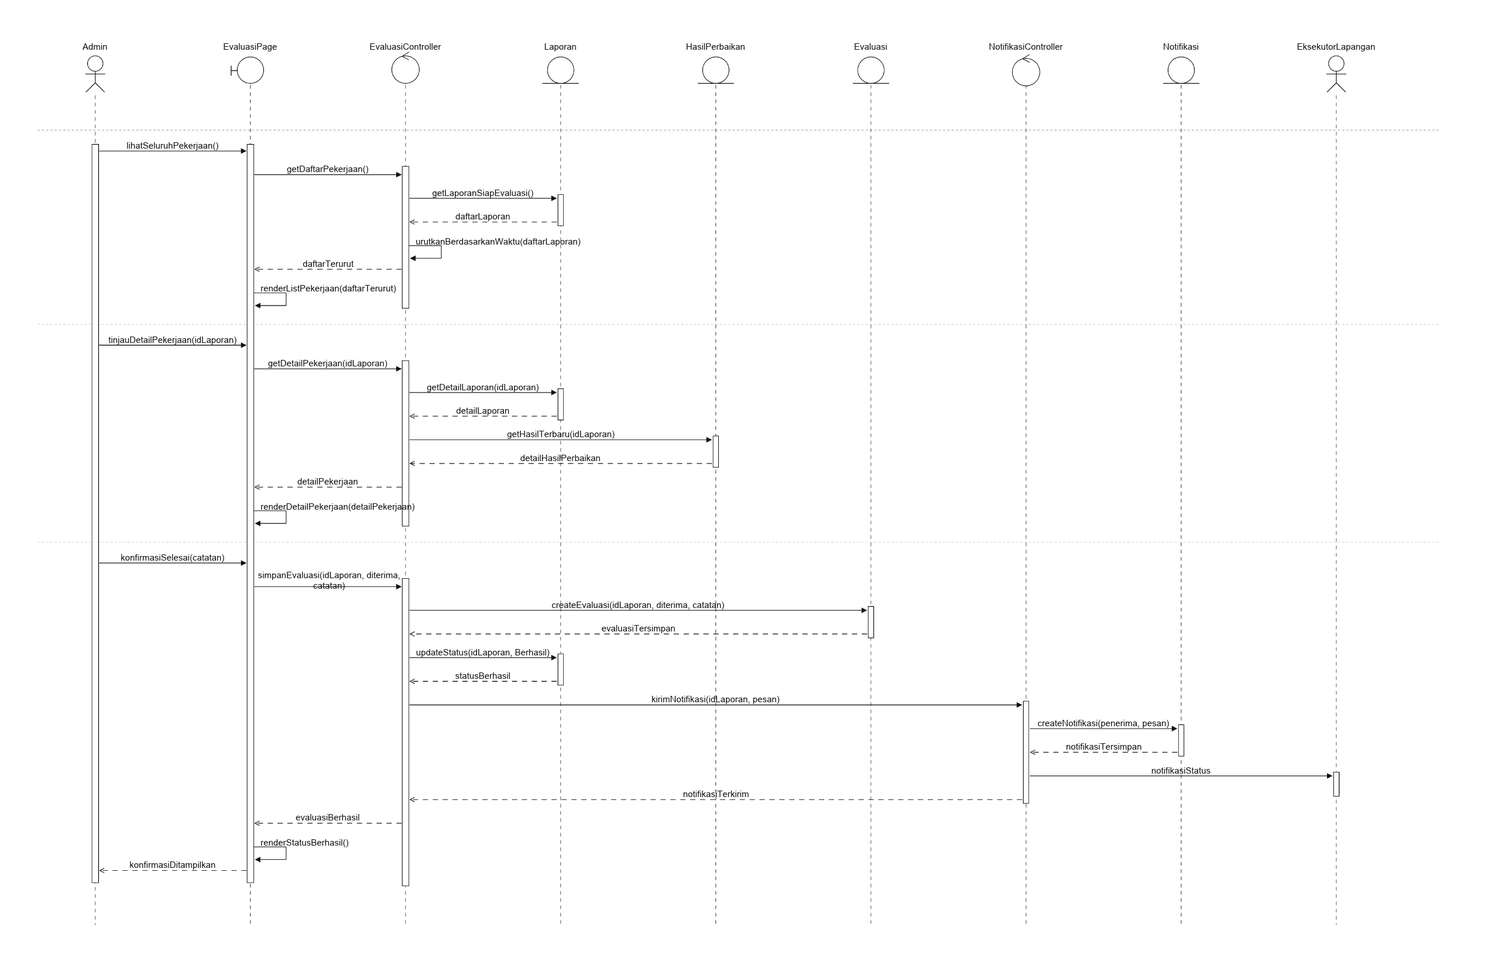
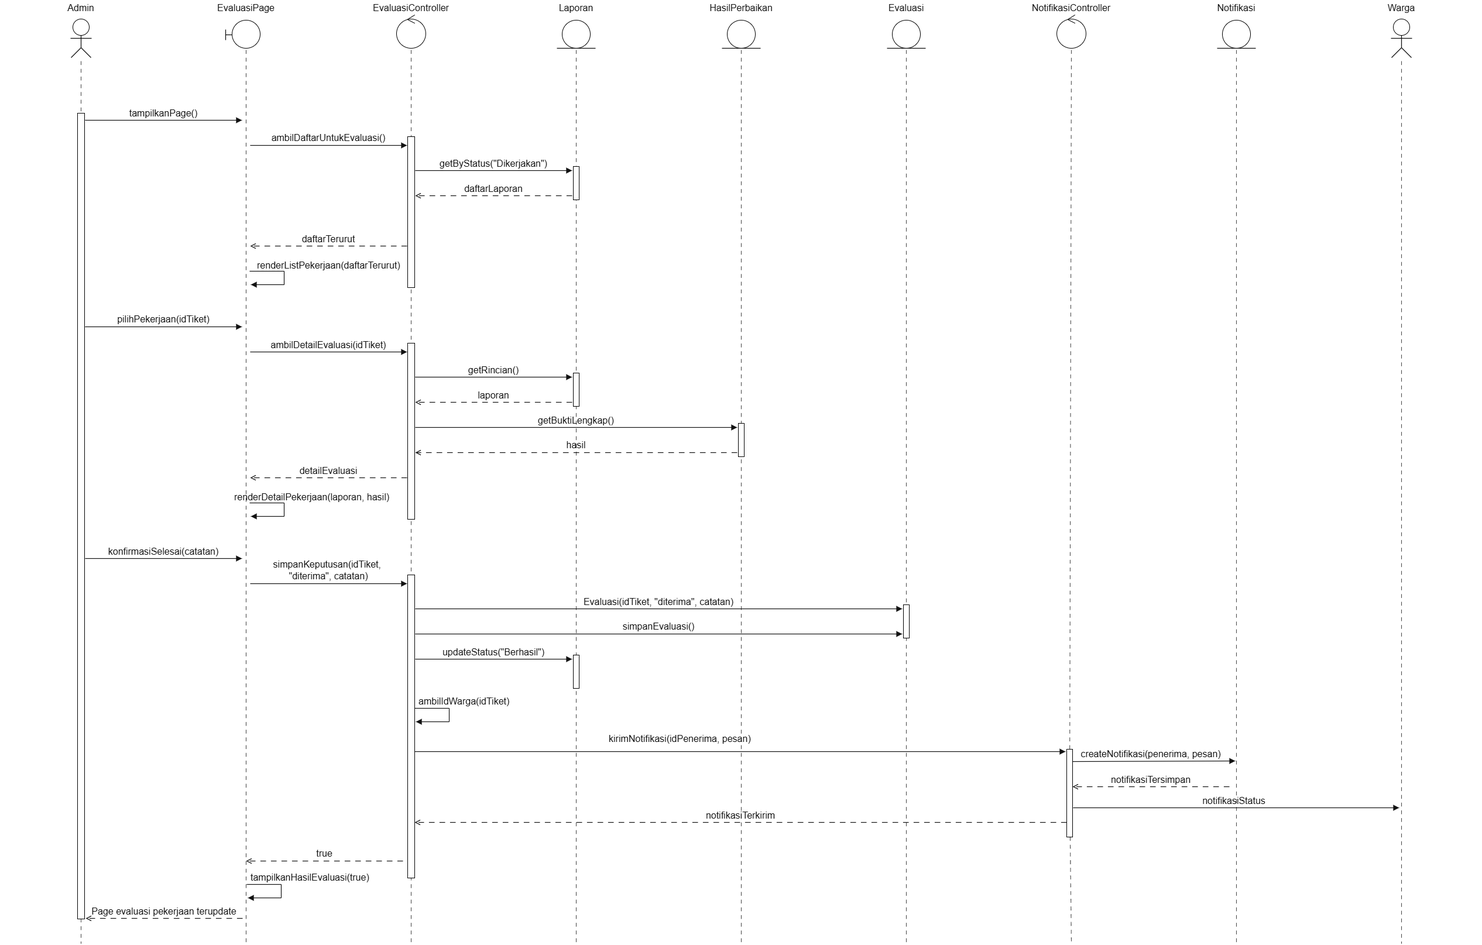
docs: final

diff --git a/docs/M7/K03_G07_DPPL.md b/docs/M7/K03_G07_DPPL.md
@@ -428,6 +428,15 @@ Tabel 3.4. Identifikasi Kelas Use Case UC04
 <i>Gambar 16. Sequence Diagram UC04 - Data Laporan Belum Lengkap</i>
 </p>
 
+- **Skenario Alternatif 2: Data Laporan Belum Lengkap**
+
+<p align="center">
+<img alt="Contoh Logical View pada P/L E-Commerce" src="./assets/diagram/UC-04-SD-Alt1.webp" width="50%">
+</p>
+<p align="center">
+<i>Gambar 16. Sequence Diagram UC04 - Data Laporan Belum Lengkap</i>
+</p>
+
 ### 3.4.3 Diagram Kelas
 
 
@@ -438,53 +447,67 @@ Tabel 3.4. Identifikasi Kelas Use Case UC04
 <i>Gambar 17. Diagram Kelas Melaporkan Hasil Penugasan</i>
 </p>
 
-## 3.5 Use Case [Nama Use Case 5]
+## 3.5 Use Case Mengevaluasi Hasil Kerja
 
-**ID Use Case:** *[UC01 sesuai SKPL]*  
-**Nama Use Case:** *[Nama use case sesuai SKPL]*
+**ID Use Case:** *UC05*  
+**Nama Use Case:** *Mengevaluasi Hasil Kerja*
 
 ### 3.5.1 Identifikasi Kelas
 
-Identifikasi kelas yang terkait dengan use case tersebut. Kelas di tahap perancangan dapat berbeda dengan dengan kelas di tahap analisis. Dapat menggunakan tabel di bawah:
 
 Tabel 3.5. Identifikasi Kelas Use Case [UC01]
 
 | No | Nama Kelas Perancangan | Nama Kelas Analisis Terkait |
-|:--- | :--- | :--- |
-| 1 | *[Nama kelas perancangan]* | *[Nama kelas analisis pada SKPL]* |
-| 2 | *[Nama kelas perancangan]* | *[Nama kelas analisis pada SKPL]* |
-| ... | *...* | *...* |
+| :--- | :--- | :--- |
+| 1 | *EvaluasiPage* | *C15 - EvaluasiPage* |
+| 2 | *EvaluasiController* | *C21 - EvaluasiController* |
+| 3 | *Evaluasi* | *C09 - Evaluasi* |
+| 4 | *Laporan* | *C02 - Laporan* |
+| 5 | *HasilPerbaikan* | *C08 - HasilPerbaikan* |
+| 6 | *User* | *C01 - User* |
+| 7 | *Foto* | *C04 - Foto* |
+| 8 | *Video* | *C05 - Video* |
+| 9 | *NotifikasiController* | *C23 - NotifikasiController* |
+| 10 | *Notifikasi* | *C10 - Notifikasi* |
 
 ### 3.5.2 Sequence Diagram
 
-Buat *sequence diagram* untuk **setiap skenario use case**, mencakup skenario normal dan alternatif pada subbab 4.4 SKPL. Diagram melibatkan kelas-kelas yang telah diidentifikasi pada SKPL. 
 
 - **Skenario Normal**
 
 <p align="center">
-<img alt="Contoh Logical View pada P/L E-Commerce" src="./assets/diagram/contoh-sequence_diagram.png" width="50%">
+<img alt="Contoh Logical View pada P/L E-Commerce" src="./assets/diagram/UC-05-SD.png" width="50%">
 </p>
 <p align="center">
-<i>Gambar X. Sequence Diagram [UC01]</i>
+<i>Gambar 18. Sequence Diagram UC05</i>
 </p>
 
-- **Skenario Alternatif [Nomor]: [Nama Skenario]**
+- **Skenario Alternatif 1: Pekerjaan belum selesai**
 
 <p align="center">
-<img alt="Contoh Logical View pada P/L E-Commerce" src="./assets/diagram/contoh-sequence_diagram.png" width="50%">
+<img alt="Contoh Logical View pada P/L E-Commerce" src="./assets/diagram/UC-05-SD-Alt1.png" width="50%">
 </p>
 <p align="center">
-<i>Gambar X. Sequence Diagram [UC01] - [Nama skenario alternatif]</i>
+<i>Gambar 19. Sequence Diagram UC05 - Pekerjaan belum selesai</i>
+</p>
+
+- **Skenario Alternatif 2: Foto/video pekerjaan tidak ada atau tidak jelas**
+
+<p align="center">
+<img alt="Contoh Logical View pada P/L E-Commerce" src="./assets/diagram/UC-05-SD-Alt2.png" width="50%">
+</p>
+<p align="center">
+<i>Gambar 20. Sequence Diagram UC05 - Pekerjaan belum selesai</i>
 </p>
 
 ### 3.5.3 Diagram Kelas
 
 
 <p align="center">
-<img alt="Contoh Logical View pada P/L E-Commerce" src="./assets/diagram/contoh_class-diagram2.jpg" width="35%">
+<img alt="Contoh Logical View pada P/L E-Commerce" src="./assets/diagram/UC-05-CD.png" width="35%">
 </p>
 <p align="center">
-<i>Gambar X. Diagram Kelas [Nama Uce Case]</i>
+<i>Gambar 21. Diagram Kelas [Nama Uce Case]</i>
 </p>
 
 ## 3.6 Use Case Memantau Status Laporan
@@ -520,7 +543,7 @@ Tabel 3.6. Identifikasi Kelas Use Case [UC06]
 <img alt="Sequence Diagram UC06" src="./assets/diagram/UC-06-SD.webp" width="50%">
 </p>
 <p align="center">
-<i>Gambar X. Sequence Diagram UC06</i>
+<i>Gambar 22. Sequence Diagram UC06</i>
 </p>
 
 - **Skenario Alternatif 1: Memantau Laporan Publik via Peta Sebaran dan Memberikan Dukungan (Upvote)**
@@ -529,7 +552,7 @@ Tabel 3.6. Identifikasi Kelas Use Case [UC06]
 <img alt="Sequence Diagram UC06-Alt1" src="./assets/diagram/UC-06-SD-Alt1.webp" width="50%">
 </p>
 <p align="center">
-<i>Gambar X. Sequence Diagram UC06 - Memantau Laporan Publik via Peta Sebaran dan Memberikan Dukungan (Upvote)</i>
+<i>Gambar 23. Sequence Diagram UC06 - Memantau Laporan Publik via Peta Sebaran dan Memberikan Dukungan (Upvote)</i>
 </p>
 
 - **Skenario Alternatif 2: Memantau Laporan yang Berstatus "Ditolak"**
@@ -538,7 +561,7 @@ Tabel 3.6. Identifikasi Kelas Use Case [UC06]
 <img alt="Sequence Diagram UC06-Alt2" src="./assets/diagram/UC-06-SD-Alt2.webp" width="50%">
 </p>
 <p align="center">
-<i>Gambar X. Sequence Diagram UC06 - Laporan Berstatus "Ditolak"</i>
+<i>Gambar 24. Sequence Diagram UC06 - Laporan Berstatus "Ditolak"</i>
 </p>
 
 ### 3.6.3 Diagram Kelas
@@ -548,7 +571,7 @@ Tabel 3.6. Identifikasi Kelas Use Case [UC06]
 <img alt="Diagram Kelas Memantau Status Laporan" src="./assets/diagram/UC-06-CD.webp" width="70%">
 </p>
 <p align="center">
-<i>Gambar X. Diagram Kelas Memantau Status Laporan</i>
+<i>Gambar 25. Diagram Kelas Memantau Status Laporan</i>
 </p>
 
 ## 3.X Use Case XX
@@ -559,7 +582,7 @@ Buatlah diagram kelas untuk use case ini yang terdiri atas kelas-kelas dari 3.1.
 <img alt="Contoh Logical View pada P/L E-Commerce" src="./assets/diagram/contoh_class-diagram2.jpg" width="35%">
 </p>
 <p align="center">
-<i>Gambar X. Diagram Kelas [Nama Uce Case]</i>
+<i>Gambar 26. Diagram Kelas [Nama Uce Case]</i>
 </p>
 
 Pada diagram, pastikan:
@@ -576,10 +599,8 @@ Pada diagram, pastikan:
 
 ## 4.1 Diagram Kelas
 
-**Bagian ini diisi dengan diagram kelas keseluruhan.**
-
 <p align="center">
-<img alt="Contoh Logical View pada P/L E-Commerce" src="./assets/diagram/contoh-class_diargam.png" width="35%">
+<img alt="Contoh Logical View pada P/L E-Commerce" src="./assets/diagram/Keseluruhan-CD.webp" width="35%">
 </p>
 <p align="center">
 <i>Gambar 4.1. Diagram Kelas Perancangan Keseluruhan [Nama P/L]</i>
@@ -589,29 +610,29 @@ Tabel 4.1. Daftar Kelas Perancangan Keseluruhan
 
 | ID Kelas | Nama Kelas | Atribut | Metode/Operasi |
 | :--- | :--- | :--- | :--- |
-| *C01* | *User* | - idUser: String<br>- nama: String<br>- email: String<br>- role: String | + getRole(): String<br>+ getIdUser(): String<br>+ isAdmin(): Boolean |
-| *C02* | *Laporan* | - idTiket: String<br>- kategori: String<br>- deskripsi: String<br>- status: String<br>- waktuMasuk: DateTime<br>- jumlahUpvote: Integer<br>- skorPrioritas: Float<br>- alasanPenolakan: String | + Laporan(idTiket: String, kategori: String, deskripsi: String, foto: List[Foto], video: List[Video], lokasi: Lokasi)<br>+ simpanLaporan(): Boolean<br>+ hitungPrioritas(): Float<br>+ getRincian(): Laporan<br>+ getRincianPublik(): Laporan<br>+ tambahUpvote(upvote: Upvote): Integer<br>+ updateStatus(statusBaru: String): Boolean<br>+ setAlasanPenolakan(alasan: String): void<br>+ getByStatus(status: String): List[Laporan]<br>+ filterByKategori(kategori: String, status: String): List[Laporan] |
-| *C03* | *Lokasi* | - latitude: Double<br>- longitude: Double | + dalamWilayah(): Boolean<br>+ hitungJarak(lokasiLain: Lokasi): Double<br>+ getKoordinat(): String |
-| *C04* | *Foto* | - url: String<br>- format: String<br>- ukuran: Integer | + isFotoValid(): Boolean |
-| *C05* | *Video* | - url: String<br>- format: String<br>- ukuran: Integer | + isVideoValid(): Boolean |
-| *C06* | *Upvote* | - idUpvote: String<br>- waktuUpvote: DateTime | + catatUpvote(idUser: String): void<br>+ getJumlahUpvote(): Integer |
-| *C07* | *ListTugas* | - jumlahLaporanAktif: Integer<br>- daftarLaporan: List[Laporan] | + urutPrioritas(): List[Laporan]<br>+ filterKategori(kategori: String): List[Laporan]<br>+ getLaporanById(idTiket: String): Laporan |
-| *C08* | *HasilPerbaikan* | - idHasil: String<br>- catatan: String<br>- waktuUnggah: DateTime<br>- fotoBukti: List[Foto]<br>- videoBukti: List[Video] | + validasiBerkas(foto: List[Foto], video: List[Video]): Boolean<br>+ simpanBukti(): Boolean<br>+ getBuktiLengkap(): HasilPerbaikan |
-| *C09* | *Evaluasi* | *(menunggu realisasi UC05)* | *(menunggu realisasi UC05)* |
-| *C10* | *Notifikasi* | - idNotifikasi: String<br>- isiPesan: String<br>- waktuKirim: DateTime<br>- statusBaca: Boolean | + Notifikasi(idUser: String, pesan: String)<br>+ buatPesan(): String<br>+ tandaiDibaca(): Boolean |
-| *C11* | *LaporPage* | - kategoriDipilih: String<br>- inputDeskripsi: String<br>- berkasFoto: List[Foto]<br>- berkasVideo: List[Video]<br>- lokasiTerkunci: Lokasi | + bukaForm(): void<br>+ userInput(kategori: String, deskripsi: String, foto: List[Foto], video: List[Video]): void<br>+ kunciLokasi(): void<br>+ tandaiLokasiManual(latitude: Double, longitude: Double): void<br>+ submitForm(): void<br>+ batalkanLaporan(): void<br>- ambilTokenAntiBot(): String<br>- hapusBerkasTidakValid(): void<br>- tampilkanPesan(pesan: String): void |
-| *C12* | *ValidasiPage* | - pilihanFilter: String<br>- idTiketTerpilih: String<br>- inputAlasanPenolakan: String | + bukaDasborPenanganan(): void<br>+ tampilkanAntrean(): void<br>+ pilihFilterKategori(kategori: String): void<br>+ pilihLaporan(idTiket: String): void<br>+ onValidClicked(idTiket: String): void<br>+ onTolakClicked(idTiket: String): void<br>+ submitAlasanPenolakan(idTiket: String, alasan: String): void |
-| *C13* | *PenugasanPage* | - pilihanKategori: String<br>- statusTampilan: String<br>- idTiketAktif: String | + tampilkanPage(): void<br>+ pindahPage(): void<br>+ renderRincianLaporan(laporan: Laporan): void<br>+ renderListTugas(daftar: List[Laporan]): void<br>+ pilihLaporan(): void<br>+ pilihKategori(): void |
-| *C14* | *HasilPerbaikanForm* | - statusTampilan: String<br>- inputDeskripsi: String<br>- berkasFoto: List[Foto]<br>- berkasVideo: List[Video] | + tampilkanForm(idTiket: String): void<br>+ renderBerkas(): void<br>+ userInput(deskripsi: String, foto: List[Foto], video: List[Video]): void<br>+ submitForm(): void |
-| *C15* | *EvaluasiPage* | *(menunggu realisasi UC05)* | *(menunggu realisasi UC05)* |
-| *C16* | *StatusLaporanPage* | - pilihanTiket: String<br>- modeTampilan: String | + pilihMenuRiwayat(): void<br>+ pilihMenuPeta(): void<br>+ bukaTautanNotifikasi(idNotifikasi: String): void<br>+ pilihTiket(idTiket: String): void<br>+ pilihMarker(idTiket: String): void<br>+ onUpvoteClicked(): void<br>+ tampilkanRiwayat(daftarLaporan: List[Laporan]): void<br>+ tampilkanPetaSebaran(daftarLaporanPublik: List[Laporan]): void<br>+ tampilkanDetailTiket(detail: Laporan): void |
-| *C17* | *LaporanController* | - idUserAktif: String | + validasiBerkas(foto: List[Foto], video: List[Video]): Boolean<br>+ validasiLokasi(lokasi: Lokasi): Boolean<br>+ kirimLaporan(kategori: String, deskripsi: String, foto: List[Foto], video: List[Video], lokasi: Lokasi, token: String): String<br>- verifikasiAkses(): Boolean<br>- verifikasiAntiBot(token: String): Boolean<br>- cekDuplikat(lokasi: Lokasi, kategori: String): Laporan<br>- terbitkanIdTiket(): String |
-| *C18* | *ValidasiController* | - idUserAktif: String | + verifikasiAkses(): Boolean<br>+ susunAntrean(): List[Laporan]<br>+ saringAntrean(kategori: String): List[Laporan]<br>+ ambilRincianLaporan(idTiket: String): Laporan<br>+ setujuiLaporan(idTiket: String): Boolean<br>+ tolakLaporan(idTiket: String, alasan: String): Boolean |
-| *C19* | *PenugasanController* | - idUserAktif: String | + doFilter(kategori: String): List[Laporan]<br>+ doSorting(): List[Laporan]<br>+ verifikasiAkses(): Boolean<br>+ bukaLaporan(idTiket: String): Laporan |
-| *C20* | *PerbaikanController* | - idLaporan: String<br>- idUserAktif: String | + validasiForm(catatan: String, foto: List[Foto], video: List[Video]): Boolean<br>+ verifikasiAkses(): Boolean<br>+ unggahHasil(idTiket: String, catatan: String, foto: List[Foto], video: List[Video]): Boolean |
-| *C21* | *EvaluasiController* | *(menunggu realisasi UC05)* | *(menunggu realisasi UC05)* |
-| *C22* | *StatusController* | - idUserAktif: String | + ambilRiwayatWarga(): List[Laporan]<br>+ ambilLaporanPublik(): List[Laporan]<br>+ ambilDetailStatus(idTiket: String): Laporan<br>+ prosesUpvote(idTiket: String): Integer |
-| *C23* | *NotifikasiController* | - idPenerima: String | + susunPesanNotifikasi(idPenerima: String, pesan: String): void<br>+ kirimNotifikasi(idPenerima: String, pesan: String): Boolean<br>+ updateStatusBaca(idNotifikasi: String): Boolean |
+| C01 | User | - idUser: String<br>- nama: String<br>- email: String<br>- role: String | + getRole(): String<br>+ getIdUser(): String<br>+ isAdmin(): Boolean |
+| C02 | Laporan | - idTiket: String<br>- kategori: String<br>- deskripsi: String<br>- status: String<br>- waktuMasuk: DateTime<br>- jumlahUpvote: Integer<br>- skorPrioritas: Float<br>- alasanPenolakan: String | + Laporan(idTiket: String, kategori: String, deskripsi: String, foto: List[Foto], video: List[Video], lokasi: Lokasi)<br>+ simpanLaporan(): Boolean<br>+ hitungPrioritas(): Float<br>+ getRincian(): Laporan<br>+ getRincianPublik(): Laporan<br>+ tambahUpvote(upvote: Upvote): Integer<br>+ updateStatus(statusBaru: String): Boolean<br>+ setAlasanPenolakan(alasan: String): void<br>+ getByStatus(status: String): List[Laporan]<br>+ filterByKategori(kategori: String, status: String): List[Laporan] |
+| C03 | Lokasi | - latitude: Double<br>- longitude: Double | + dalamWilayah(): Boolean<br>+ hitungJarak(lokasiLain: Lokasi): Double<br>+ getKoordinat(): String |
+| C04 | Foto | - url: String<br>- format: String<br>- ukuran: Integer | + isFotoValid(): Boolean |
+| C05 | Video | - url: String<br>- format: String<br>- ukuran: Integer | + isVideoValid(): Boolean |
+| C06 | Upvote | - idUpvote: String<br>- waktuUpvote: DateTime | + catatUpvote(idUser: String): void<br>+ getJumlahUpvote(): Integer |
+| C07 | ListTugas | - jumlahLaporanAktif: Integer<br>- daftarLaporan: List[Laporan] | + urutPrioritas(): List[Laporan]<br>+ filterKategori(kategori: String): List[Laporan]<br>+ getLaporanById(idTiket: String): Laporan |
+| C08 | HasilPerbaikan | - idHasil: String<br>- catatan: String<br>- waktuUnggah: DateTime<br>- fotoBukti: List[Foto]<br>- videoBukti: List[Video] | + validasiBerkas(foto: List[Foto], video: List[Video]): Boolean<br>+ simpanBukti(): Boolean<br>+ getBuktiLengkap(): HasilPerbaikan |
+| C09 | Evaluasi | - idEvaluasi: String<br>- idTiket: String<br>- keputusan: String<br>- catatan: String<br>- waktuEvaluasi: DateTime | + Evaluasi(idTiket: String, keputusan: String, catatan: String)<br>+ simpanEvaluasi(): Boolean<br>+ getKeputusan(): String |
+| C10 | Notifikasi | - idNotifikasi: String<br>- isiPesan: String<br>- waktuKirim: DateTime<br>- statusBaca: Boolean | + Notifikasi(idUser: String, pesan: String)<br>+ createNotifikasi(idUser: String, pesan: String)<br>+ createNotifikasiSelesai(idUser: String)<br>+ buatPesan(): String<br>+ tandaiDibaca(): Boolean |
+| C11 | LaporPage | - kategoriDipilih: String<br>- inputDeskripsi: String<br>- berkasFoto: List[Foto]<br>- berkasVideo: List[Video]<br>- lokasiTerkunci: Lokasi | + bukaForm(): void<br>+ userInput(kategori: String, deskripsi: String, foto: List[Foto], video: List[Video]): void<br>+ kunciLokasi(): void<br>+ tandaiLokasiManual(latitude: Double, longitude: Double): void<br>+ submitForm(): void<br>+ batalkanLaporan(): void<br>- ambilTokenAntiBot(): String<br>- hapusBerkasTidakValid(): void<br>- tampilkanPesan(pesan: String): void |
+| C12 | ValidasiPage | - pilihanFilter: String<br>- idTiketTerpilih: String<br>- inputAlasanPenolakan: String | + bukaDasborPenanganan(): void<br>+ tampilkanAntrean(): void<br>+ pilihFilterKategori(kategori: String): void<br>+ pilihLaporan(idTiket: String): void<br>+ onValidClicked(idTiket: String): void<br>+ onTolakClicked(idTiket: String): void<br>+ submitAlasanPenolakan(idTiket: String, alasan: String): void |
+| C13 | PenugasanPage | - pilihanKategori: String<br>- statusTampilan: String<br>- idTiketAktif: String | + tampilkanPage(): void<br>+ pindahPage(): void<br>+ renderRincianLaporan(laporan: Laporan): void<br>+ renderListTugas(daftar: List[Laporan]): void<br>+ pilihLaporan(): void<br>+ pilihKategori(): void |
+| C14 | HasilPerbaikanForm | - statusTampilan: String<br>- inputDeskripsi: String<br>- berkasFoto: List[Foto]<br>- berkasVideo: List[Video] | + tampilkanForm(idTiket: String): void<br>+ renderBerkas(): void<br>+ userInput(deskripsi: String, foto: List[Foto], video: List[Video]): void<br>+ submitForm(): void |
+| C15 | EvaluasiPage | - daftarPekerjaan: List[Laporan]<br>- idTiketDipilih: String<br>- inputCatatan: String | + tampilkanPage(): void<br>+ renderListPekerjaan(daftar: List[Laporan]): void<br>+ pilihPekerjaan(idTiket: String): void<br>+ renderDetailPekerjaan(laporan: Laporan, hasil: HasilPerbaikan): void<br>+ konfirmasiSelesai(): void<br>+ konfirmasiBelumSelesai(catatan: String): void<br>+ mintaUlangBukti(catatan: String): void<br>+ tampilkanHasilEvaluasi(berhasil: Boolean): void |
+| C16 | StatusLaporanPage | - pilihanTiket: String<br>- modeTampilan: String | + pilihMenuRiwayat(): void<br>+ pilihMenuPeta(): void<br>+ bukaTautanNotifikasi(idNotifikasi: String): void<br>+ pilihTiket(idTiket: String): void<br>+ pilihMarker(idTiket: String): void<br>+ onUpvoteClicked(): void<br>+ tampilkanRiwayat(daftarLaporan: List[Laporan]): void<br>+ tampilkanPetaSebaran(daftarLaporanPublik: List[Laporan]): void<br>+ tampilkanDetailTiket(detail: Laporan): void |
+| C17 | LaporanController | - idUserAktif: String | + validasiBerkas(foto: List[Foto], video: List[Video]): Boolean<br>+ validasiLokasi(lokasi: Lokasi): Boolean<br>+ kirimLaporan(kategori: String, deskripsi: String, foto: List[Foto], video: List[Video], lokasi: Lokasi, token: String): String<br>- verifikasiAkses(): Boolean<br>- verifikasiAntiBot(token: String): Boolean<br>- cekDuplikat(lokasi: Lokasi, kategori: String): Laporan<br>- terbitkanIdTiket(): String |
+| C18 | ValidasiController | - idUserAktif: String | + verifikasiAkses(): Boolean<br>+ susunAntrean(): List[Laporan]<br>+ saringAntrean(kategori: String): List[Laporan]<br>+ ambilRincianLaporan(idTiket: String): Laporan<br>+ setujuiLaporan(idTiket: String): Boolean<br>+ tolakLaporan(idTiket: String, alasan: String): Boolean |
+| C19 | PenugasanController | - idUserAktif: String | + doFilter(kategori: String): List[Laporan]<br>+ doSorting(): List[Laporan]<br>+ verifikasiAkses(): Boolean<br>+ bukaLaporan(idTiket: String): Laporan |
+| C20 | PerbaikanController | - idLaporan: String<br>- idUserAktif: String | + validasiForm(catatan: String, foto: List[Foto], video: List[Video]): Boolean<br>+ verifikasiAkses(): Boolean<br>+ unggahHasil(idTiket: String, catatan: String, foto: List[Foto], video: List[Video]): Boolean |
+| C21 | EvaluasiController | - idUserAktif: String | + verifikasiAkses(): Boolean<br>+ ambilDaftarUntukEvaluasi(): List[Laporan]<br>+ pilihSiapEvaluasi(daftar: List[Laporan]): List[Laporan]<br>+ urutkanBerdasarkanWaktu(daftar: List[Laporan]): List[Laporan]<br>+ ambilDetailEvaluasi(idTiket: String): Object<br>+ simpanKeputusan(idTiket: String, keputusan: String, catatan: String): Boolean<br>+ ambilIdEksekutor(idTiket: String): String<br>+ ambilIdWarga(idTiket: String): String |
+| C22 | StatusController | - idUserAktif: String | + ambilRiwayatWarga(): List[Laporan]<br>+ ambilLaporanPublik(): List[Laporan]<br>+ ambilDetailStatus(idTiket: String): Laporan<br>+ prosesUpvote(idTiket: String): Integer |
+| C23 | NotifikasiController | - idPenerima: String | + susunPesanNotifikasi(idPenerima: String, pesan: String): void<br>+ kirimNotifikasi(idPenerima: String, pesan: String): Boolean<br>+ kirimNotifikasiSelesai(idPenerima: String): Boolean<br>+ updateStatusBaca(idNotifikasi: String): Boolean |
 
 
 <br>
@@ -626,26 +647,26 @@ Tabel 5.1. Matriks Kerunutan Kelas terhadap Use Case
 
 | Kelas | Use Case Terkait |
 | :--- | :--- |
-| *[C01 - User]* | *[UC01 - Mengirim Laporan Kerusakan], [UC02 - Memvalidasi Laporan Baru], [UC03 - Melihat Penugasan Lapangan], [UC04 - Melaporkan Hasil Penugasan], [UC06 - Memantau Status Laporan]* |
-| *[C02 - Laporan]* | *[UC01 - Mengirim Laporan Kerusakan], [UC02 - Memvalidasi Laporan Baru], [UC03 - Melihat Penugasan Lapangan], [UC04 - Melaporkan Hasil Penugasan], [UC06 - Memantau Status Laporan]* |
+| *[C01 - User]* | *[UC01 - Mengirim Laporan Kerusakan], [UC02 - Memvalidasi Laporan Baru], [UC03 - Melihat Penugasan Lapangan], [UC04 - Melaporkan Hasil Penugasan], [UC05 - Mengevaluasi Hasil Kerja], [UC06 - Memantau Status Laporan]* |
+| *[C02 - Laporan]* | *[UC01 - Mengirim Laporan Kerusakan], [UC02 - Memvalidasi Laporan Baru], [UC03 - Melihat Penugasan Lapangan], [UC04 - Melaporkan Hasil Penugasan], [UC05 - Mengevaluasi Hasil Kerja], [UC06 - Memantau Status Laporan]* |
 | *[C03 - Lokasi]* | *[UC01 - Mengirim Laporan Kerusakan], [UC02 - Memvalidasi Laporan Baru], [UC06 - Memantau Status Laporan]* |
-| *[C04 - Foto]* | *[UC01 - Mengirim Laporan Kerusakan], [UC02 - Memvalidasi Laporan Baru], [UC03 - Melihat Penugasan Lapangan], [UC04 - Melaporkan Hasil Penugasan], [UC06 - Memantau Status Laporan]* |
-| *[C05 - Video]* | *[UC01 - Mengirim Laporan Kerusakan], [UC02 - Memvalidasi Laporan Baru], [UC03 - Melihat Penugasan Lapangan], [UC04 - Melaporkan Hasil Penugasan], [UC06 - Memantau Status Laporan]* |
+| *[C04 - Foto]* | *[UC01 - Mengirim Laporan Kerusakan], [UC02 - Memvalidasi Laporan Baru], [UC03 - Melihat Penugasan Lapangan], [UC04 - Melaporkan Hasil Penugasan], [UC05 - Mengevaluasi Hasil Kerja], [UC06 - Memantau Status Laporan]* |
+| *[C05 - Video]* | *[UC01 - Mengirim Laporan Kerusakan], [UC02 - Memvalidasi Laporan Baru], [UC03 - Melihat Penugasan Lapangan], [UC04 - Melaporkan Hasil Penugasan], [UC05 - Mengevaluasi Hasil Kerja], [UC06 - Memantau Status Laporan]* |
 | *[C06 - Upvote]* | *[UC02 - Memvalidasi Laporan Baru], [UC06 - Memantau Status Laporan]* |
 | *[C07 - ListTugas]* | *[UC03 - Melihat Penugasan Lapangan], [UC04 - Melaporkan Hasil Penugasan]* |
-| *[C08 - HasilPerbaikan]* | *[UC04 - Melaporkan Hasil Penugasan], [UC06 - Memantau Status Laporan]* |
-| *[C09 - Evaluasi]* | *[UCXX - Nama]* |
-| *[C10 - Notifikasi]* | *[UC01 - Mengirim Laporan Kerusakan], [UC02 - Memvalidasi Laporan Baru]* |
+| *[C08 - HasilPerbaikan]* | *[UC04 - Melaporkan Hasil Penugasan], [UC05 - Mengevaluasi Hasil Kerja], [UC06 - Memantau Status Laporan]* |
+| *[C09 - Evaluasi]* | *[UC05 - Mengevaluasi Hasil Kerja]* |
+| *[C10 - Notifikasi]* | *[UC01 - Mengirim Laporan Kerusakan], [UC02 - Memvalidasi Laporan Baru], [UC05 - Mengevaluasi Hasil Kerja]* |
 | *[C11 - LaporPage]* | *[UC01 - Mengirim Laporan Kerusakan]* |
 | *[C12 - ValidasiPage]* | *[UC02 - Memvalidasi Laporan Baru]* |
 | *[C13 - PenugasanPage]* | *[UC03 - Melihat Penugasan Lapangan], [UC04 - Melaporkan Hasil Penugasan]* |
 | *[C14 - HasilPerbaikanForm]* | *[UC04 - Melaporkan Hasil Penugasan]* |
-| *[C15 - EvaluasiPage]* | *[UCXX - Nama]* |
+| *[C15 - EvaluasiPage]* | *[UC05 - Mengevaluasi Hasil Kerja]* |
 | *[C16 - StatusLaporanPage]* | *[UC06 - Memantau Status Laporan]* |
 | *[C17 - LaporanController]* | *[UC01 - Mengirim Laporan Kerusakan]* |
 | *[C18 - ValidasiController]* | *[UC02 - Memvalidasi Laporan Baru]* |
 | *[C19 - PenugasanController]* | *[UC03 - Melihat Penugasan Lapangan], [UC04 - Melaporkan Hasil Penugasan]* |
 | *[C20 - PerbaikanController]* | *[UC04 - Melaporkan Hasil Penugasan]* |
-| *[C21 - EvaluasiController]* | *[UCXX - Nama]* |
+| *[C21 - EvaluasiController]* | *[UC05 - Mengevaluasi Hasil Kerja]* |
 | *[C22 - StatusController]* | *[UC06 - Memantau Status Laporan]* |
-| *[C23 - NotifikasiController]* | *[UC01 - Mengirim Laporan Kerusakan], [UC02 - Memvalidasi Laporan Baru]* |
+| *[C23 - NotifikasiController]* | *[UC01 - Mengirim Laporan Kerusakan], [UC02 - Memvalidasi Laporan Baru], [UC05 - Mengevaluasi Hasil Kerja]* |

diff --git a/docs/K03_G07_Logbook.md b/docs/K03_G07_Logbook.md
@@ -145,12 +145,16 @@
 ### Milestone 7
 **Periode:** 7-10-2026 - 7-10-2026 
 
-| Tanggal | Nama Anggota | Deskripsi Pekerjaan | Durasi (Jam) | Status | Kendala / *Blocker* | 
+| Tanggal | Nama Anggota | Deskripsi Pekerjaan | Durasi (Jam) | Status | Kendala / Blocker | 
 | :--- | :--- | :--- | :--- | :--- | :--- | 
-| *18-10-2026* | *Pasaribu Fritz T.A.M.* | *Mengerjakan realisasi UC04* | *2* | *Done* | Masih sedikit bingung dengan pembuatan Sequence Diagram & Perlu penyesuaian lagi untuk tipe data & parameter operasi kelas karena belum ditentukan sebelumnya | 
-| *19-10-2026* | *Pasaribu Fritz T.A.M.* | *Mengerjakan realisasi UC03* | *1 | *Done* | - |
-| *20-10-2026* | *Gede Pranajayanta Suputra* | *Mengerjakan Logo* | *2 | *Done* | - |
-| *21-10-2026* | *Gede Pranajayanta Suputra* | *Mengerjakan realisasi UC05* | *2 | *Done* | - |
+| 18-10-2026 | Pasaribu Fritz T.A.M. | Mengerjakan realisasi UC04 | 2 | Done | Masih sedikit bingung dengan pembuatan Sequence Diagram & Perlu penyesuaian lagi untuk tipe data & parameter operasi kelas karena belum ditentukan sebelumnya | 
+| 19-10-2026 | Pasaribu Fritz T.A.M. | Mengerjakan realisasi UC03 | 1 | *Done | - |
+| 20-10-2026 | Rafi Pradipta Andira Sulistyo | Mengerjakan realisasi UC01 | 2 | *Done | - |
+| 20-10-2026 | Muhammad Atallah | Mengerjakan realisasi UC06 | 2 | *Done | - |
+| 20-10-2026 | Gede Pranajayanta Suputra | Mengerjakan Logo | 2 | *Done | - |
+| 20-10-2026 | Bagas Anugrah Putra | Mengerjakan realisasi UC02 | 1 | *Unfinished | - |
+| 21-10-2026 | Bagas Anugrah Putra | Mengerjakan realisasi UC02 | 1 | *Done | - |
+| 21-10-2026 | Gede Pranajayanta Suputra | Mengerjakan realisasi UC05 | 2 | *Done | - |
 
 
 ---
